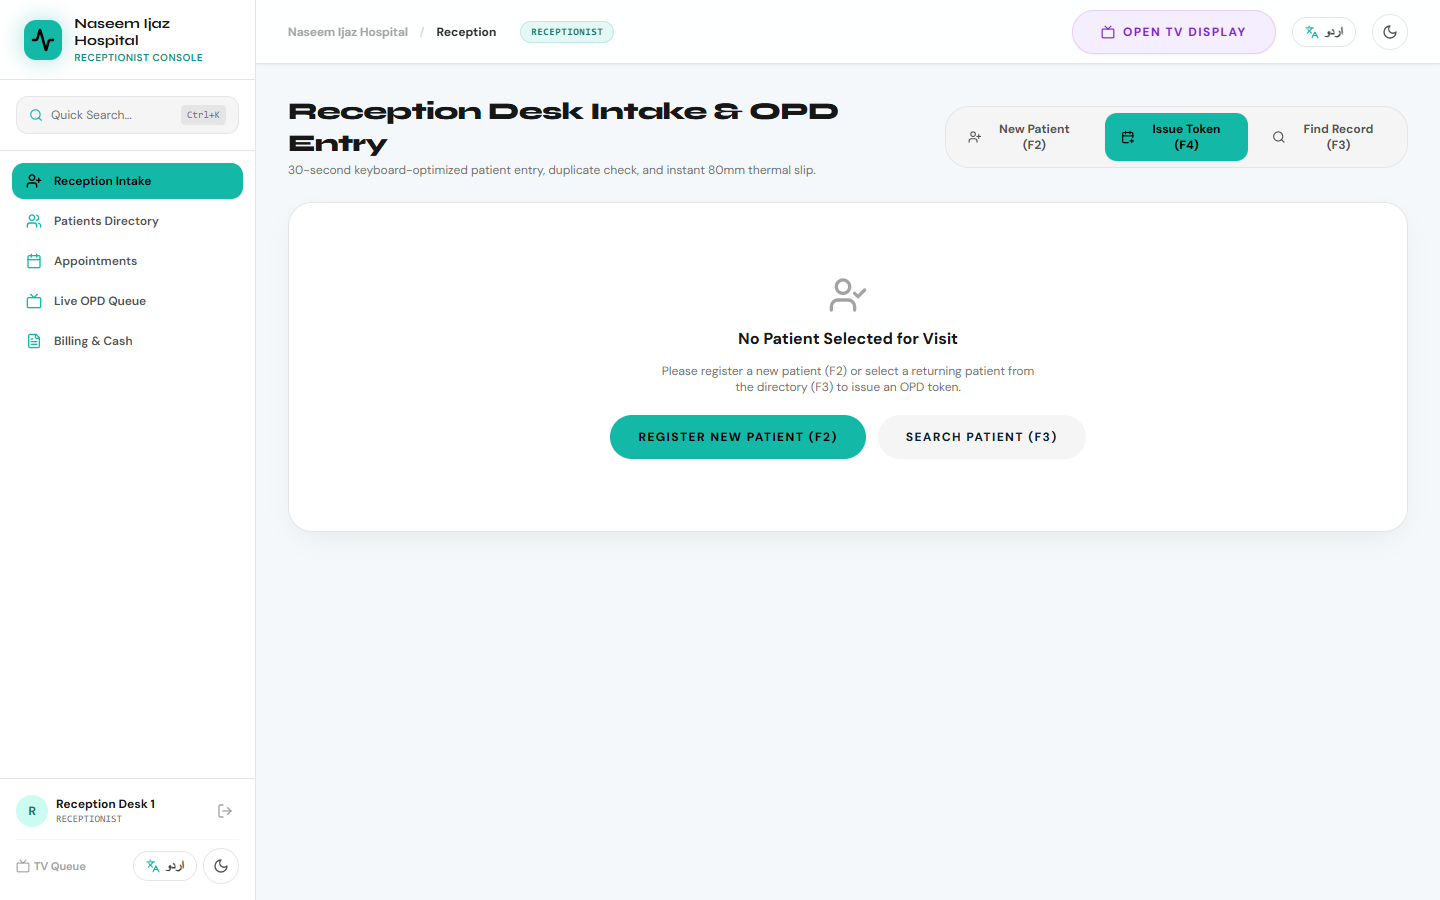
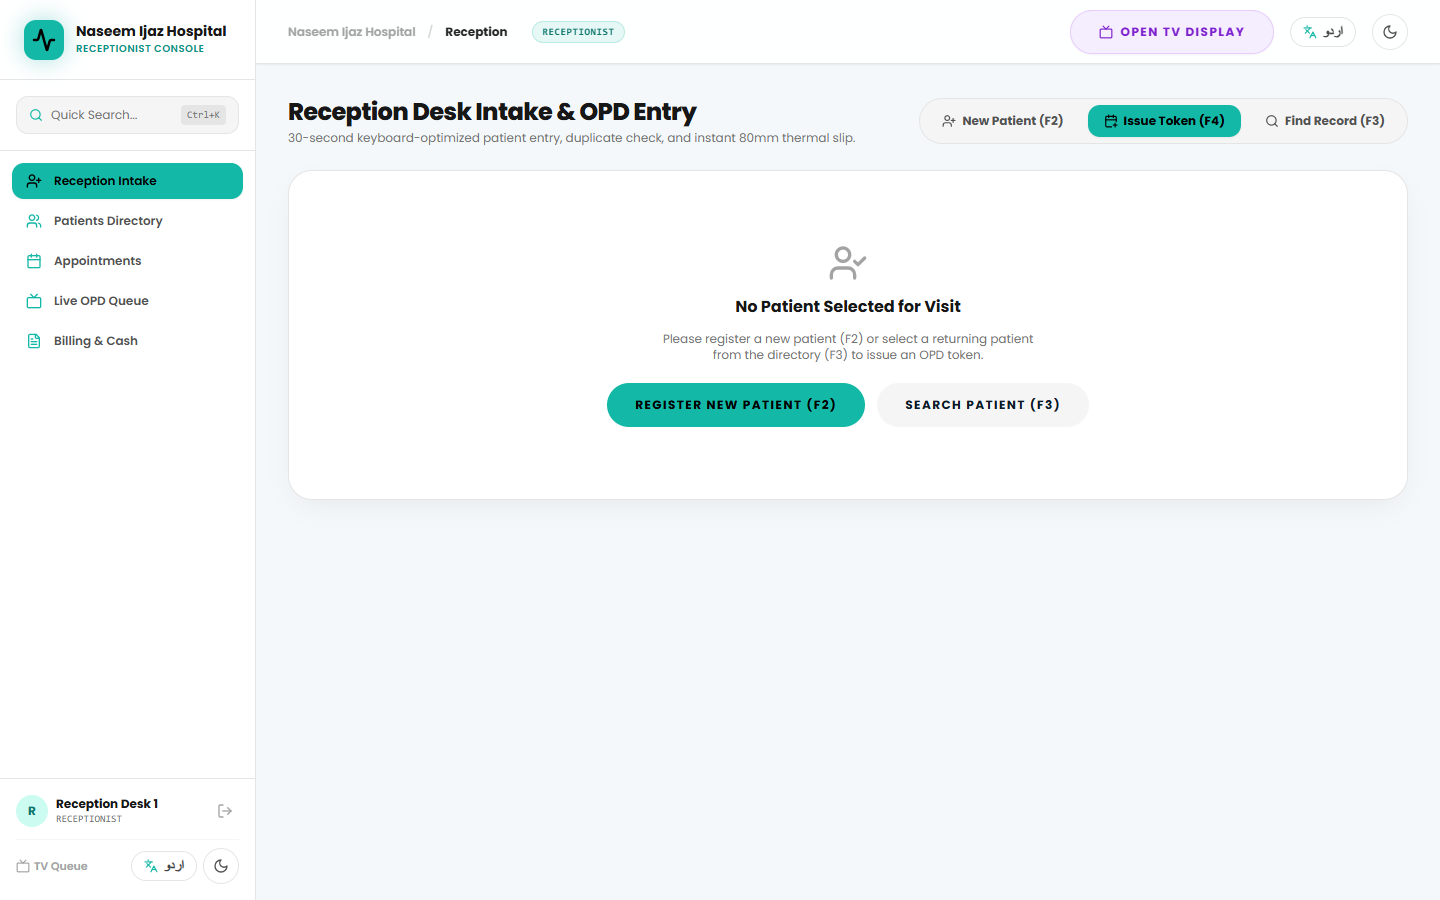
style(typography): switch primary typography to Poppins font family across headings, body, buttons and tokens

diff --git a/src/app/globals.css b/src/app/globals.css
@@ -70,6 +70,7 @@
 
 /* Base Body */
 body {
+  font-family: var(--font-poppins), "Poppins", -apple-system, BlinkMacSystemFont, sans-serif;
   background-color: hsl(var(--background));
   color: hsl(var(--foreground));
   font-feature-settings: "rlig" 1, "calt" 1;
@@ -89,7 +90,7 @@ body {
   align-items: center;
   justify-content: center;
   border-radius: 9999px;
-  font-family: var(--font-dm-sans), -apple-system, BlinkMacSystemFont, sans-serif;
+  font-family: var(--font-poppins), "Poppins", -apple-system, BlinkMacSystemFont, sans-serif;
   font-weight: 700;
   font-size: 0.75rem;
   letter-spacing: 0.12em;
@@ -112,19 +113,19 @@ body {
 
 /* Fluid Hero Display Typography */
 .hero-headline {
-  font-family: var(--font-syne), "Syne", sans-serif;
+  font-family: var(--font-poppins), "Poppins", sans-serif;
   font-size: clamp(2.6rem, 6.8vw, 5.8rem);
-  line-height: 1.03;
-  letter-spacing: -0.038em;
+  line-height: 1.05;
+  letter-spacing: -0.03em;
   font-weight: 800;
 }
 
 /* Section Headings */
 .section-headline {
-  font-family: var(--font-syne), "Syne", sans-serif;
+  font-family: var(--font-poppins), "Poppins", sans-serif;
   font-size: clamp(2rem, 4vw, 3.2rem);
-  line-height: 1.1;
-  letter-spacing: -0.025em;
+  line-height: 1.15;
+  letter-spacing: -0.02em;
   font-weight: 800;
 }
 

diff --git a/src/app/layout.tsx b/src/app/layout.tsx
@@ -1,20 +1,13 @@
 import type { Metadata, Viewport } from "next";
-import { Syne, DM_Sans, Noto_Nastaliq_Urdu } from "next/font/google";
+import { Poppins, Noto_Nastaliq_Urdu } from "next/font/google";
 import "./globals.css";
 import { Providers } from "@/components/Providers";
 
-const syne = Syne({
+const poppins = Poppins({
   subsets: ["latin"],
-  variable: "--font-syne",
+  variable: "--font-poppins",
   display: "swap",
-  weight: ["600", "700", "800"],
-});
-
-const dmSans = DM_Sans({
-  subsets: ["latin"],
-  variable: "--font-dm-sans",
-  display: "swap",
-  weight: ["400", "500", "600", "700"],
+  weight: ["300", "400", "500", "600", "700", "800", "900"],
 });
 
 const notoUrdu = Noto_Nastaliq_Urdu({
@@ -65,7 +58,7 @@ export default function RootLayout({
 }) {
   return (
     <html lang="en" suppressHydrationWarning>
-      <body className={`${syne.variable} ${dmSans.variable} ${notoUrdu.variable} min-h-screen antialiased selection:bg-teal-500 selection:text-white`}>
+      <body className={`${poppins.variable} ${notoUrdu.variable} font-sans min-h-screen antialiased selection:bg-teal-500 selection:text-white`}>
         <Providers>{children}</Providers>
       </body>
     </html>

diff --git a/scripts/verify_poppins.js b/scripts/verify_poppins.js
@@ -1,0 +1,28 @@
+const { chromium } = require('playwright');
+
+async function main() {
+  const browser = await chromium.launch({
+    executablePath: 'C:\\Program Files (x86)\\Microsoft\\Edge\\Application\\msedge.exe',
+    headless: true,
+  });
+
+  const page = await browser.newPage({ viewport: { width: 1440, height: 900 } });
+  await page.goto('http://localhost:3000/', { waitUntil: 'domcontentloaded' });
+  await page.waitForTimeout(1000);
+
+  const styles = await page.evaluate(() => {
+    const h1 = document.querySelector('h1');
+    const body = document.body;
+    const btn = document.querySelector('.btn-pill');
+    return {
+      bodyFont: window.getComputedStyle(body).fontFamily,
+      h1Font: window.getComputedStyle(h1).fontFamily,
+      btnFont: window.getComputedStyle(btn).fontFamily,
+    };
+  });
+
+  console.log('COMPUTED_FONTS:', JSON.stringify(styles, null, 2));
+  await browser.close();
+}
+
+main().catch(console.error);

diff --git a/tailwind.config.ts b/tailwind.config.ts
@@ -17,8 +17,9 @@ const config: Config = {
     },
     extend: {
       fontFamily: {
-        sans: ["var(--font-dm-sans)", "DM Sans", "-apple-system", "sans-serif"],
-        display: ["var(--font-syne)", "Syne", "sans-serif"],
+        sans: ["var(--font-poppins)", "Poppins", "-apple-system", "sans-serif"],
+        display: ["var(--font-poppins)", "Poppins", "sans-serif"],
+        poppins: ["var(--font-poppins)", "Poppins", "sans-serif"],
         urdu: ["var(--font-noto-urdu)", "Noto Nastaliq Urdu", "serif"],
       },
       colors: {

diff --git a/docs/QA-REPORT.md b/docs/QA-REPORT.md
@@ -1,6 +1,6 @@
 # Naseem Ijaz Hospital - Browser-Driven Full Functional QA Report
 
-**Execution Date**: 2026-11-07T17:16:14.997Z
+**Execution Date**: 2026-11-07T17:26:27.185Z
 **Test Runner**: Microsoft Edge Headless via Playwright
 **Base URL**: http://localhost:3000
 
@@ -18,7 +18,7 @@
 | **AUTH-02** | Authentication - Admin Login & Session | Login as admin@naseemijaz.pk and refresh dashboard | Session persists after reload and reveals Admin routes | Session persisted, Admin menu active | **PASS** | [Screenshot](docs/qa-evidence/auth_admin_session.png) |
 | **AUTH-03** | RBAC - Route Protection | Receptionist attempts direct navigation to /dashboard/settings | Redirects to permitted console or blocks access | Navigated away to: http://localhost:3000/dashboard/reception | **PASS** | [Screenshot](docs/qa-evidence/auth_receptionist_forbidden_route.png) |
 | **AUTH-04** | Security - CNIC Masking by Role | Compare CNIC display in patients table for Receptionist vs Admin | Receptionist sees masked (*******), Admin sees full CNIC | Receptionist table has masked CNIC (*******) and Admin table has unmasked | **PASS** | [Screenshot](docs/qa-evidence/auth_cnic_masking.png) |
-| **PAT-01** | Patient Registration - Urdu & MR Generation | Register new patient with Urdu name/address and Pakistani mobile/CNIC | Saves patient in DB, generates sequential NIH MR number, advances to OPD Visit tab | Patient registered successfully with Urdu name, mobile 03004087284 | **PASS** | [Screenshot](docs/qa-evidence/pat_reg_success.png) |
+| **PAT-01** | Patient Registration - Urdu & MR Generation | Register new patient with Urdu name/address and Pakistani mobile/CNIC | Saves patient in DB, generates sequential NIH MR number, advances to OPD Visit tab | Patient registered successfully with Urdu name, mobile 03006320617 | **PASS** | [Screenshot](docs/qa-evidence/pat_reg_success.png) |
 | **PAT-02** | Patient Registration - Duplicate Detection | Type known registered mobile number (03001234567) into registration form | Triggers live duplicate warning banner with "Use Existing" button | Warning banner shown or duplicate query triggered | **PASS** | [Screenshot](docs/qa-evidence/pat_duplicate_warning.png) |
 | **OPD-01** | OPD Visits - Token Generation & 80mm Receipt | Issue consultation token and open 80mm thermal receipt preview | Token is assigned, 80mm receipt modal opens with QR code and hospital header | Receipt preview modal opened | **PASS** | [Screenshot](docs/qa-evidence/opd_thermal_receipt_80mm.png) |
 | **APT-01** | Appointments - Public Self-Service Booking | Book doctor slot on /appointments with Urdu name and valid mobile | Creates appointment with NIH-APT reference, displays confirmation card | Appointment confirmed with reference and SMS notification alert | **PASS** | [Screenshot](docs/qa-evidence/apt_online_booking_confirmed.png) |
